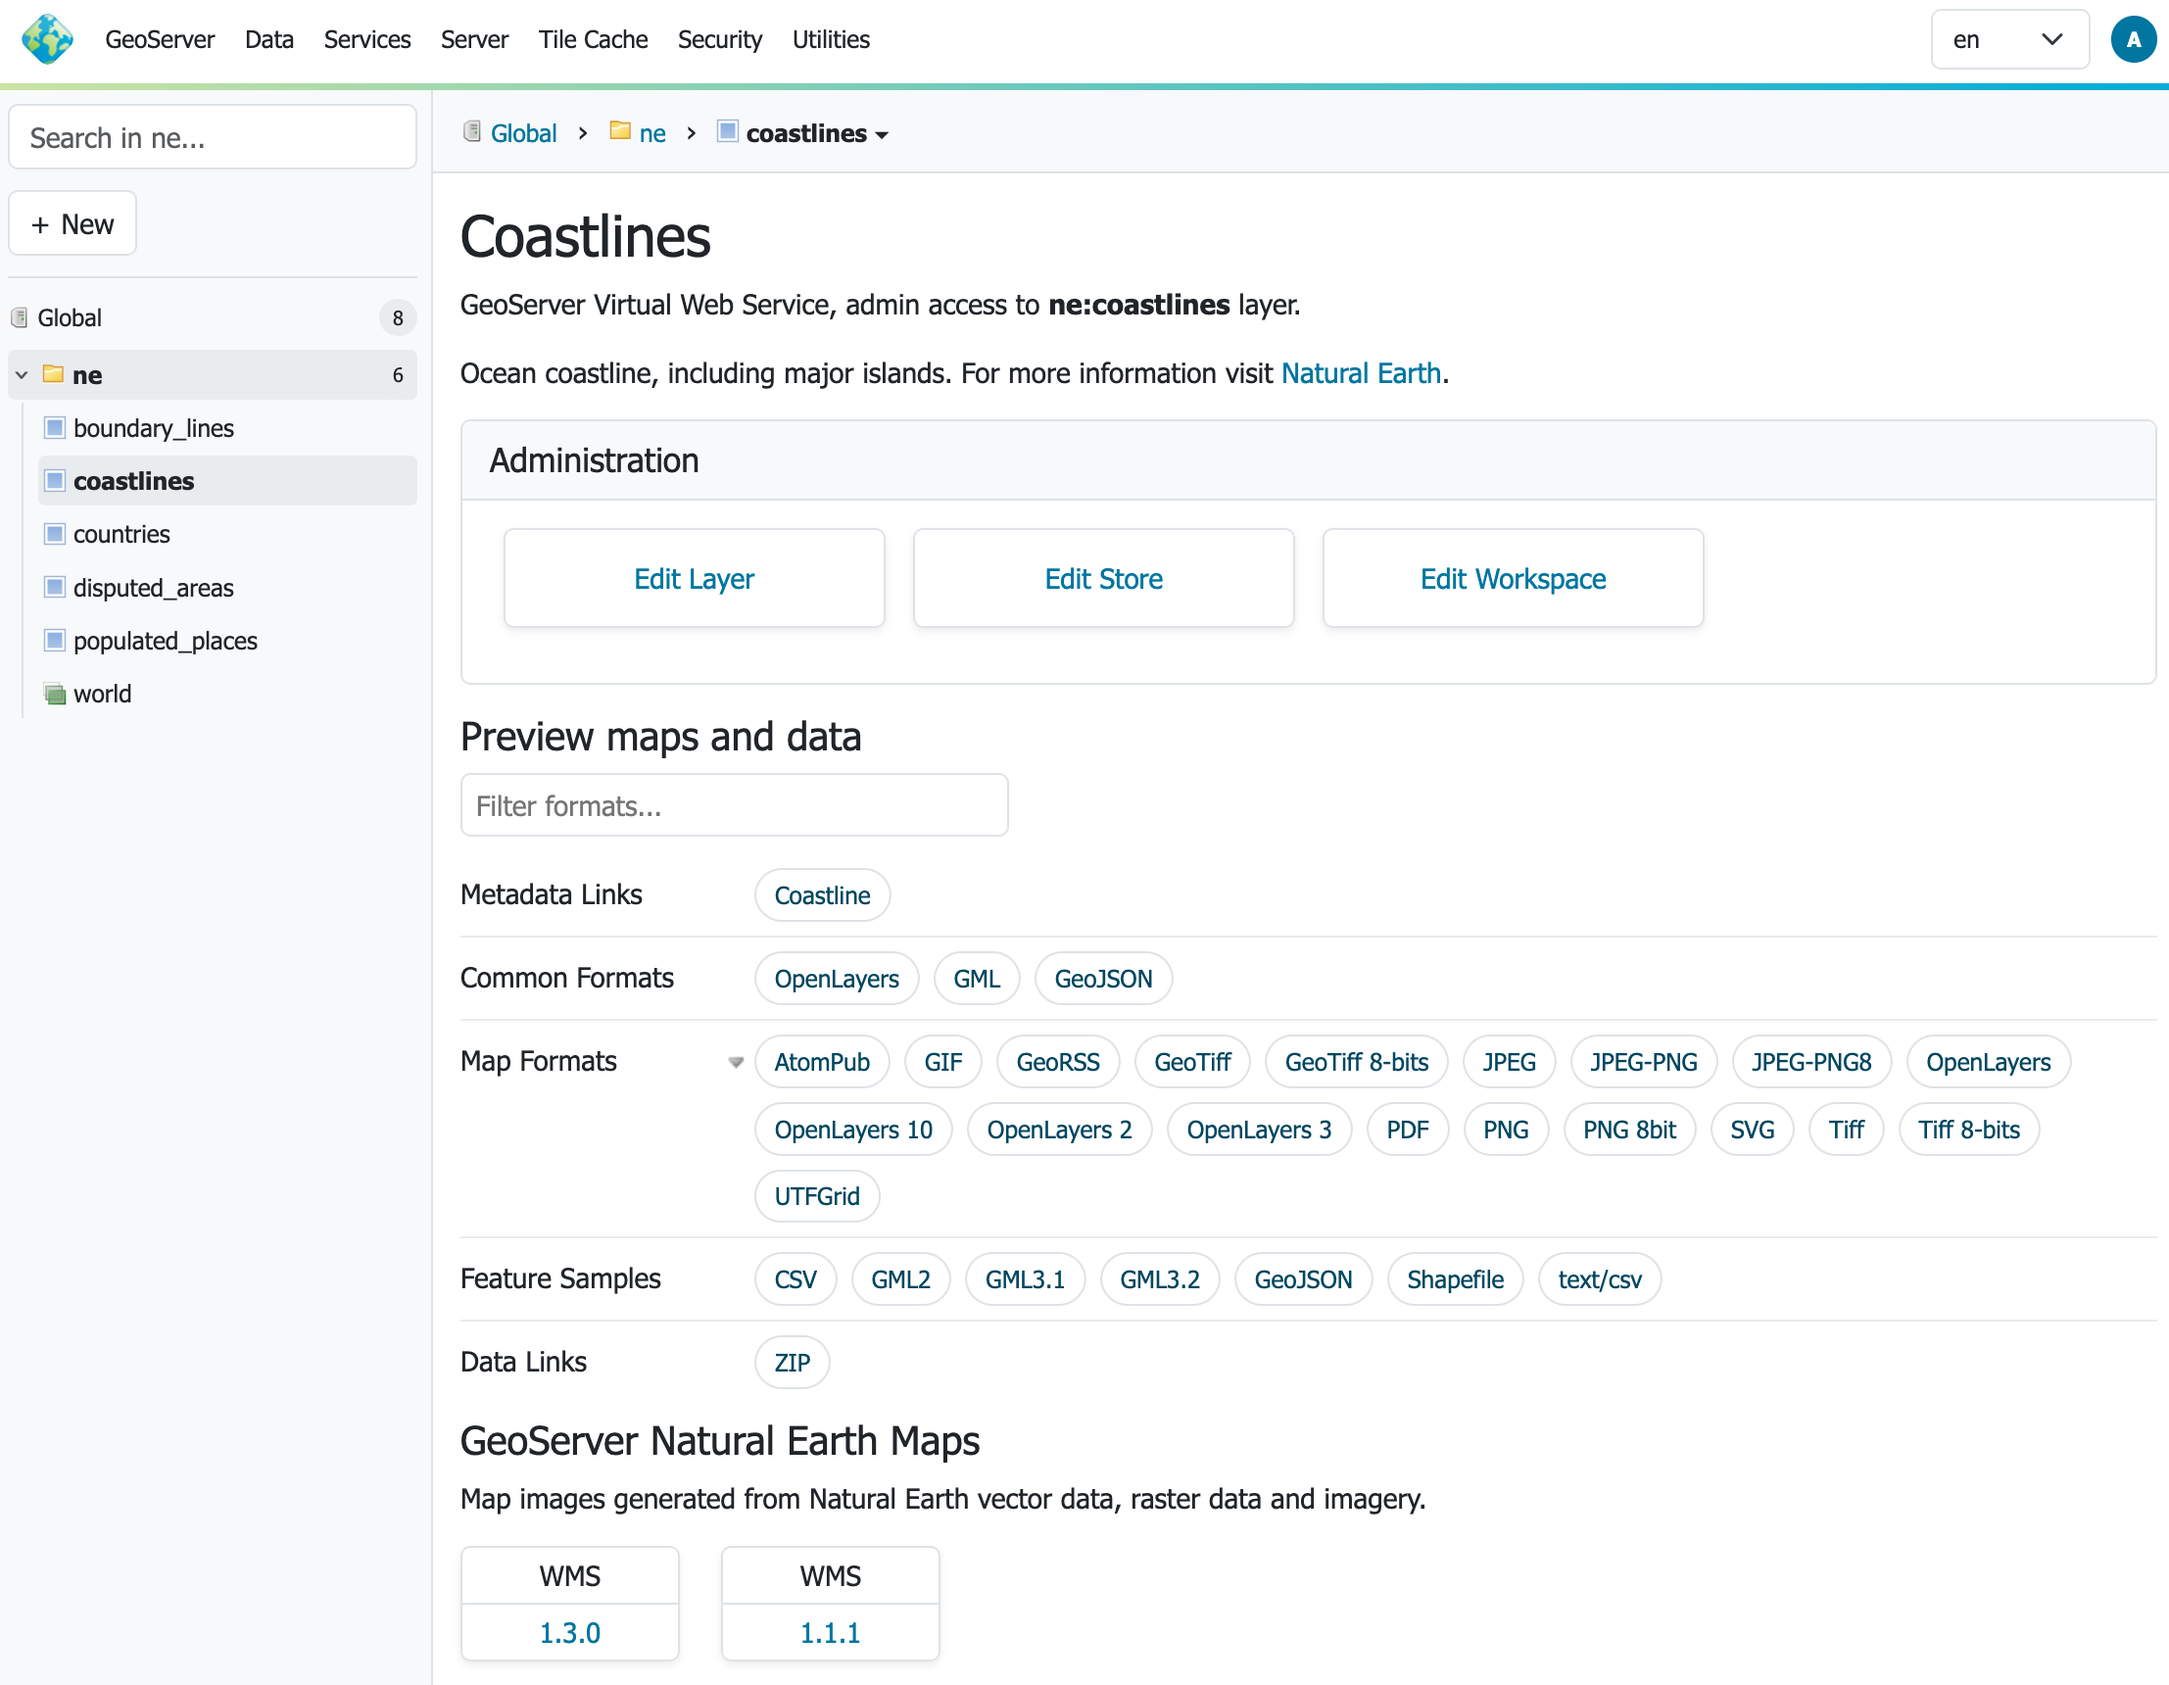
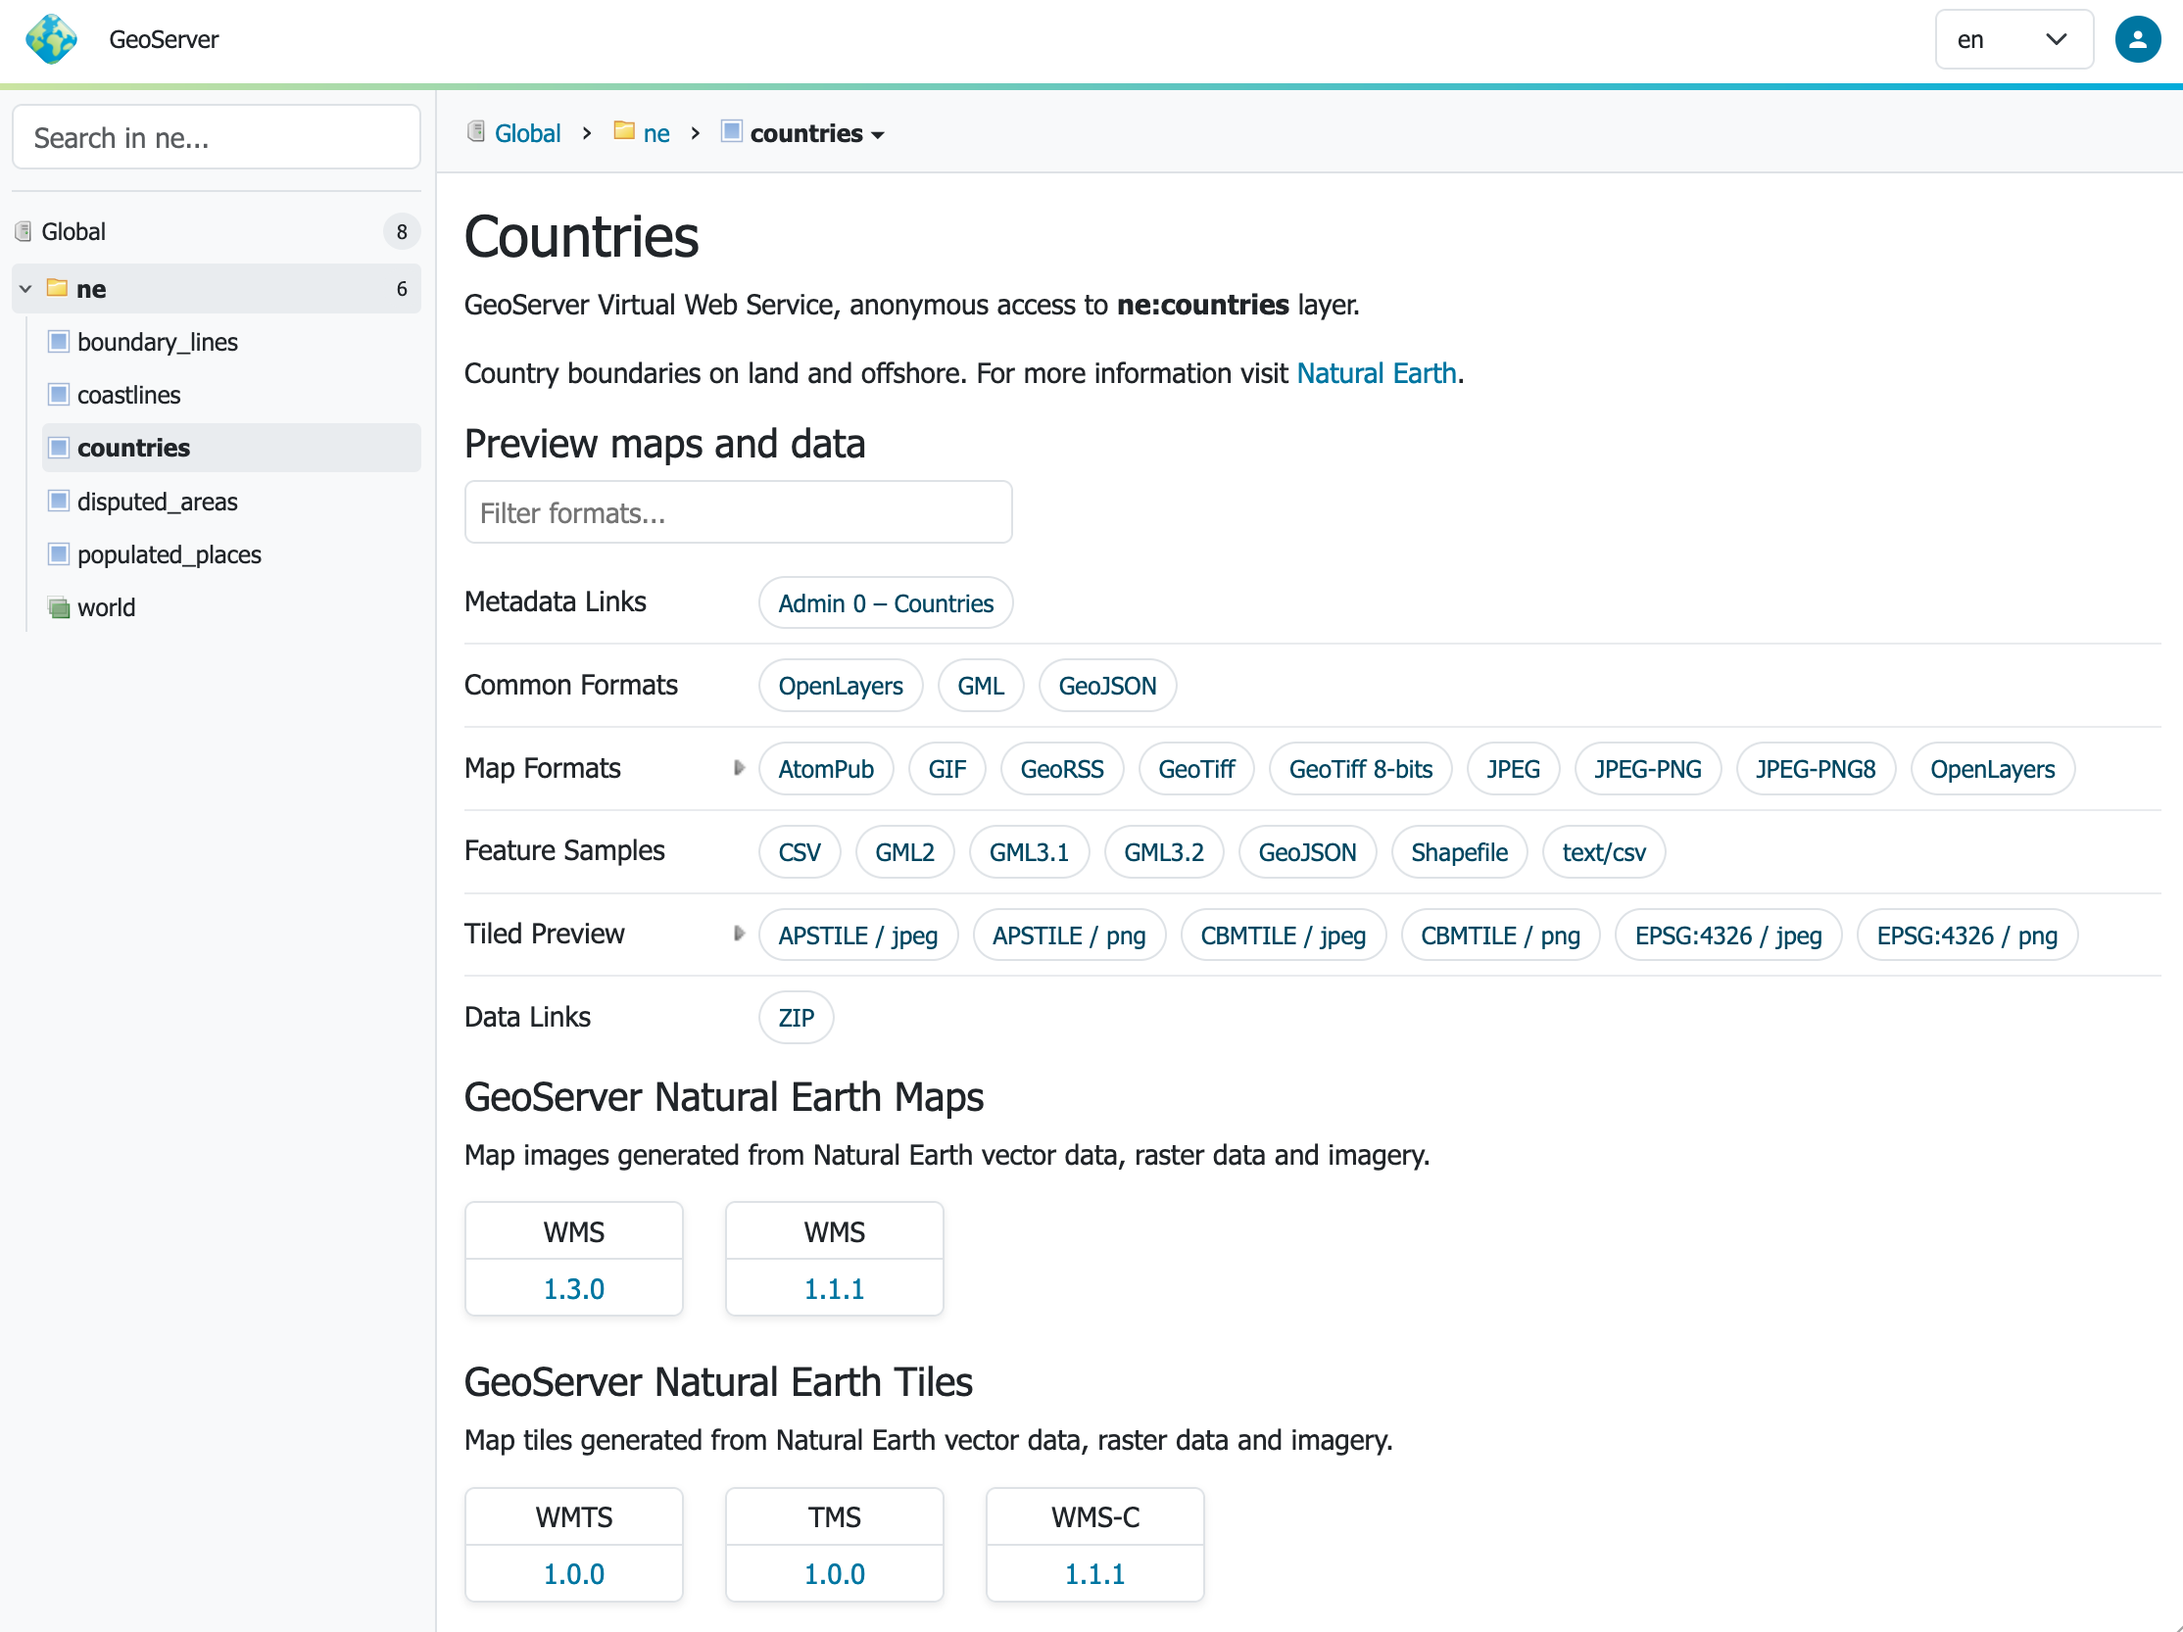
Fix image link, add a note about dark mode

diff --git a/_posts/2026-06-11-geoserver-3-0-0-released.md b/_posts/2026-06-11-geoserver-3-0-0-released.md
@@ -107,13 +107,7 @@ GeoServer 3 features a new "context-driven" user experience, which we really hop
   
 
   <a href="/img/posts/3.0/welcome-layer-filter.png" target="_blank" rel="noopener">
-    <img src="/img/posts/3.0/welcome-layer.png" alt="User Interface Welcome Layer Page" class="screensnap"/>
-  </a>
-  
-* **Menu**: The menu bar at the top of the page provides login on the right hand side, and access to the familiar GeoServer top-level menus. Many of these pages now adjust their content to reflect the current context.
-
-  <a href="/img/posts/3.0/menus.png" target="_blank" rel="noopener">
-    <img src="/img/posts/3.0/menus.png" alt="User Interface Top Level Menus" class="screensnap"/>
+    <img src="/img/posts/3.0/welcome-layer-filter.png" alt="User Interface Welcome Layer Page" class="screensnap"/>
   </a>
 
 * **Feedback**: Admins are provided additional context-menu commands, and per-layer feedback and shortcuts,
@@ -122,6 +116,12 @@ GeoServer 3 features a new "context-driven" user experience, which we really hop
   <a href="/img/posts/3.0/welcome-layer-feedback.png " target="_blank" rel="noopener">
     <img src="/img/posts/3.0/welcome-layer-feedback.png " alt="User Interface Feedback" class="screensnap"
      style="max-width: 50%"/>
+  </a>
+
+* **Menu**: The menu bar at the top of the page provides login on the right hand side, and access to the familiar GeoServer top-level navigation menus.
+
+  <a href="/img/posts/3.0/menus.png" target="_blank" rel="noopener">
+    <img src="/img/posts/3.0/menus.png" alt="User Interface Top Level Menus" class="screensnap"/>
   </a>
 
 For more information see the [user guide](https://docs.geoserver.org/main/en/user/webadmin/).
@@ -145,6 +145,15 @@ GeoServer now provides a responsive-design theme:
     <img src="/img/posts/3.0/form-two-column.png" alt="Responsive Theme: Form two-column layerout" class="screensnap"
      style="max-width: 50%"/>
   </a>
+
+* **Dark Mode**: The login menu includes a much requested dark mode setting.
+
+  <a href="/img/posts/3.0/dark-mode.png" target="_blank" rel="noopener">
+    <img src="/img/posts/3.0/dark-mode.png" alt="Responsive Theme: Dark mode" class="screensnap"/>
+  </a>
+
+
+
 
 Thanks to Stefano Bovio (GeoSolutions) for leading this frequently requested improvement, the entire GeoServer 3 team for implementing and checking, and testers at AfriGIS and GeoCat for verifying and updating screenshots.
 
